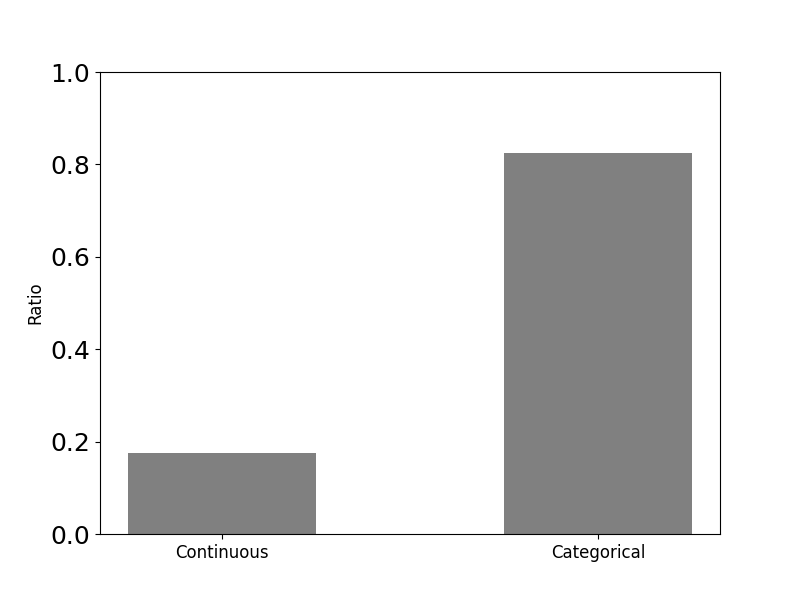
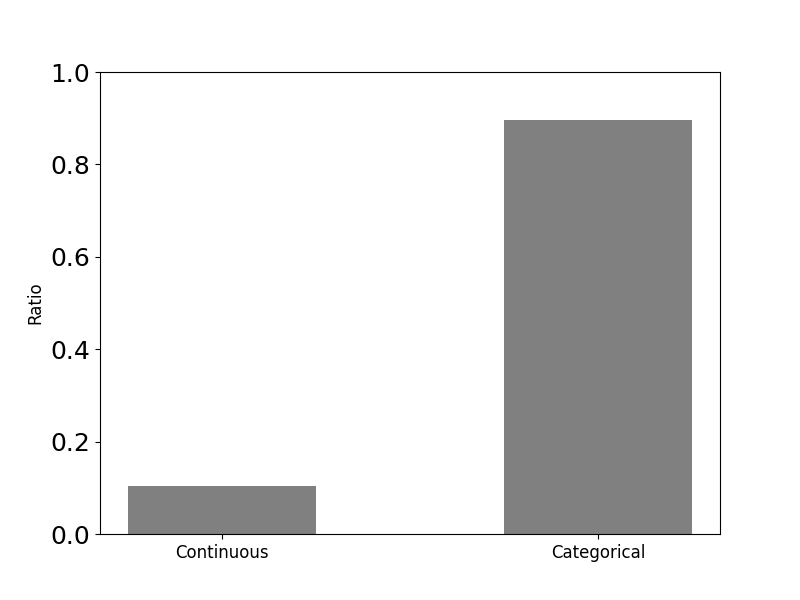
New plots

Changed region(s): [[0.625, 0.18, 0.875, 0.27], [0.1562, 0.75, 0.4062, 0.81]]

diff --git a/plots.py b/plots.py
@@ -5,6 +5,8 @@ import os
 
 from sklearn.decomposition import PCA
 from sklearn.model_selection import train_test_split
+from sklearn.decomposition import SparsePCA
+
 
 # Directory where the images will be saved
 path = "plots/"
@@ -26,7 +28,25 @@ y = df['SURVEY_NAME']
 X_train, X_test, y_train, y_test = train_test_split(X, y, test_size=0.2, random_state=0)
 
 
+# Trying sparse PCA
+spca = SparsePCA(n_components=2)
+spca_result = spca.fit_transform(X_train)
+
+# Create a DataFrame for visualization (optional)
+df_spca = pd.DataFrame(data=spca_result, columns=['PC1', 'PC2'])
+
+# Scatter plot
+plt.scatter(df_spca['PC1'], df_spca['PC2'])
+plt.title('Sparse PCA - Scatter Plot of PC1 vs PC2')
+plt.xlabel('Principal Component 1 (PC1)')
+plt.ylabel('Principal Component 2 (PC2)')
+plt.savefig(path + "pca_sparse.png")
+plt.show()
+
+
+
 # Apply PCA to reduce the data to 2 dimensions
+
 pca = PCA(n_components=2)
 x_tr_PCA = pca.fit_transform(X_train)
 
@@ -41,7 +61,7 @@ x_tr_PCA_PTSD = x_tr_PCA[ind_PTSD]
 
 # Explained variance ratio
 explained_variance_ratio = pca.explained_variance_ratio_
-print("Explained Variance Ratio:", explained_variance_ratio)
+print("Explained Variance Ratio obtained with PCA:", explained_variance_ratio)
 
 # Plot the 2D PCA result
 plt.figure(figsize=im_size) 
@@ -90,7 +110,7 @@ plt.show()
 # CATEGORICAL AND CONTINOUS FEATURES
 
 # Categorical headers keyword
-categorical_headers = ['REAKTION', 'MODALITAET', 'STRATEGIE', 'TRIGGER']
+categorical_headers = ['REAKTION', 'MODALITAET', 'STRATEGIE', 'TRIGGER', 'STIMMUNG']
 
 # Get headers
 headers_list = df.columns.tolist()
@@ -113,6 +133,9 @@ categorical_ratio = categorical / nbr_features
 continuous_ratio = continuous / nbr_features
 ratios = [continuous_ratio, categorical_ratio]
 types = ['Continuous', 'Categorical']
+print(" Ratio continous features: ", continuous_ratio )
+print(" Ratio categorical features: ", categorical_ratio )
+
 
 # Plots categorical vs continuous features
 plt.figure(figsize=im_size) 
@@ -123,3 +146,31 @@ plt.xticks(types, ["Continuous", "Categorical"], fontsize=font_size)
 plt.savefig(path + "catcont.png")
 plt.rc('font', size=18)
 plt.show()
+
+# Plots missing values 
+
+#Import df before nan removal
+df_nan = pd.read_csv('data/nan_data.csv', sep=";", header=0, index_col=0)
+
+
+# Calculate the percentage of NaN values in each column
+df_nan = (df_nan.isna().mean() * 100)
+
+# Converts df into numpy array
+nans = df_nan.values
+
+# Define feature vector
+features = np.arange(1, len(nans)+1)
+
+# Plot NaN ratio
+plt.figure(figsize=(8, 6)) 
+plt.bar(features, nans, color='orange')
+plt.xlabel("Feature number", fontsize=font_size)
+plt.ylabel("Ratio of NaN values", fontsize=font_size)
+plt.savefig(path + "nan.png")
+plt.rc('font', size=18)
+plt.show()
+
+# Number fo features larger than 15 %
+features_nan = np.sum(nans > 15)
+print( features_nan , "% of features have a percentage of NaN higher than 15%. ")
